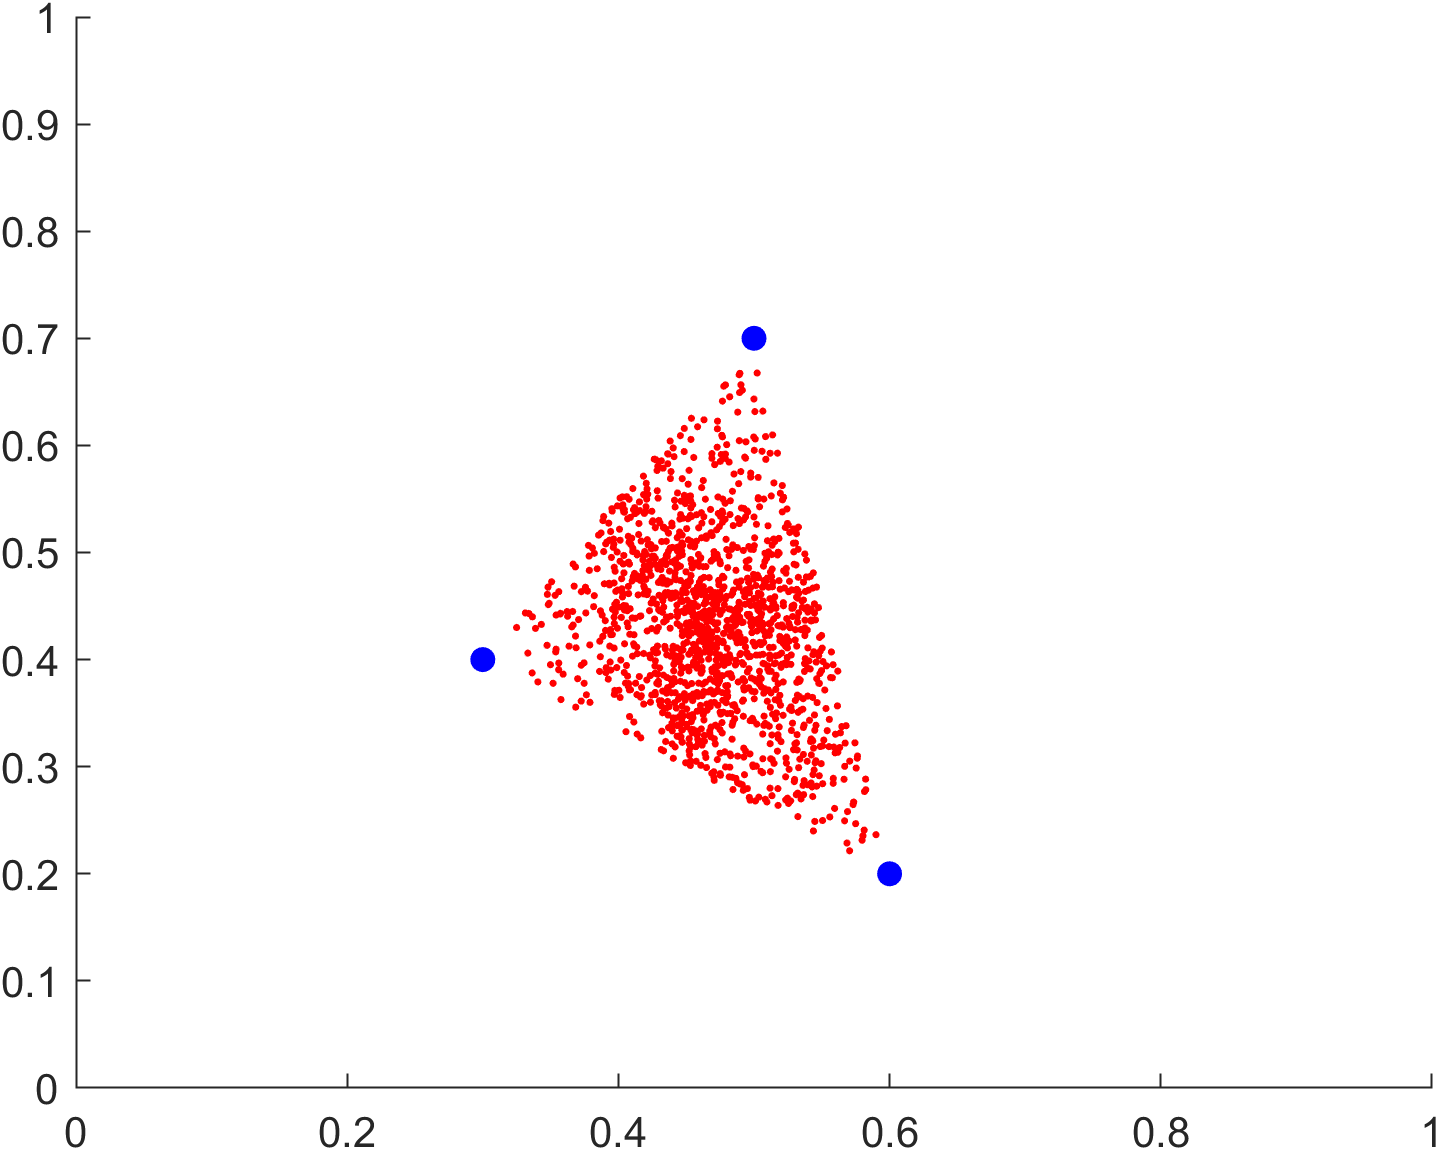
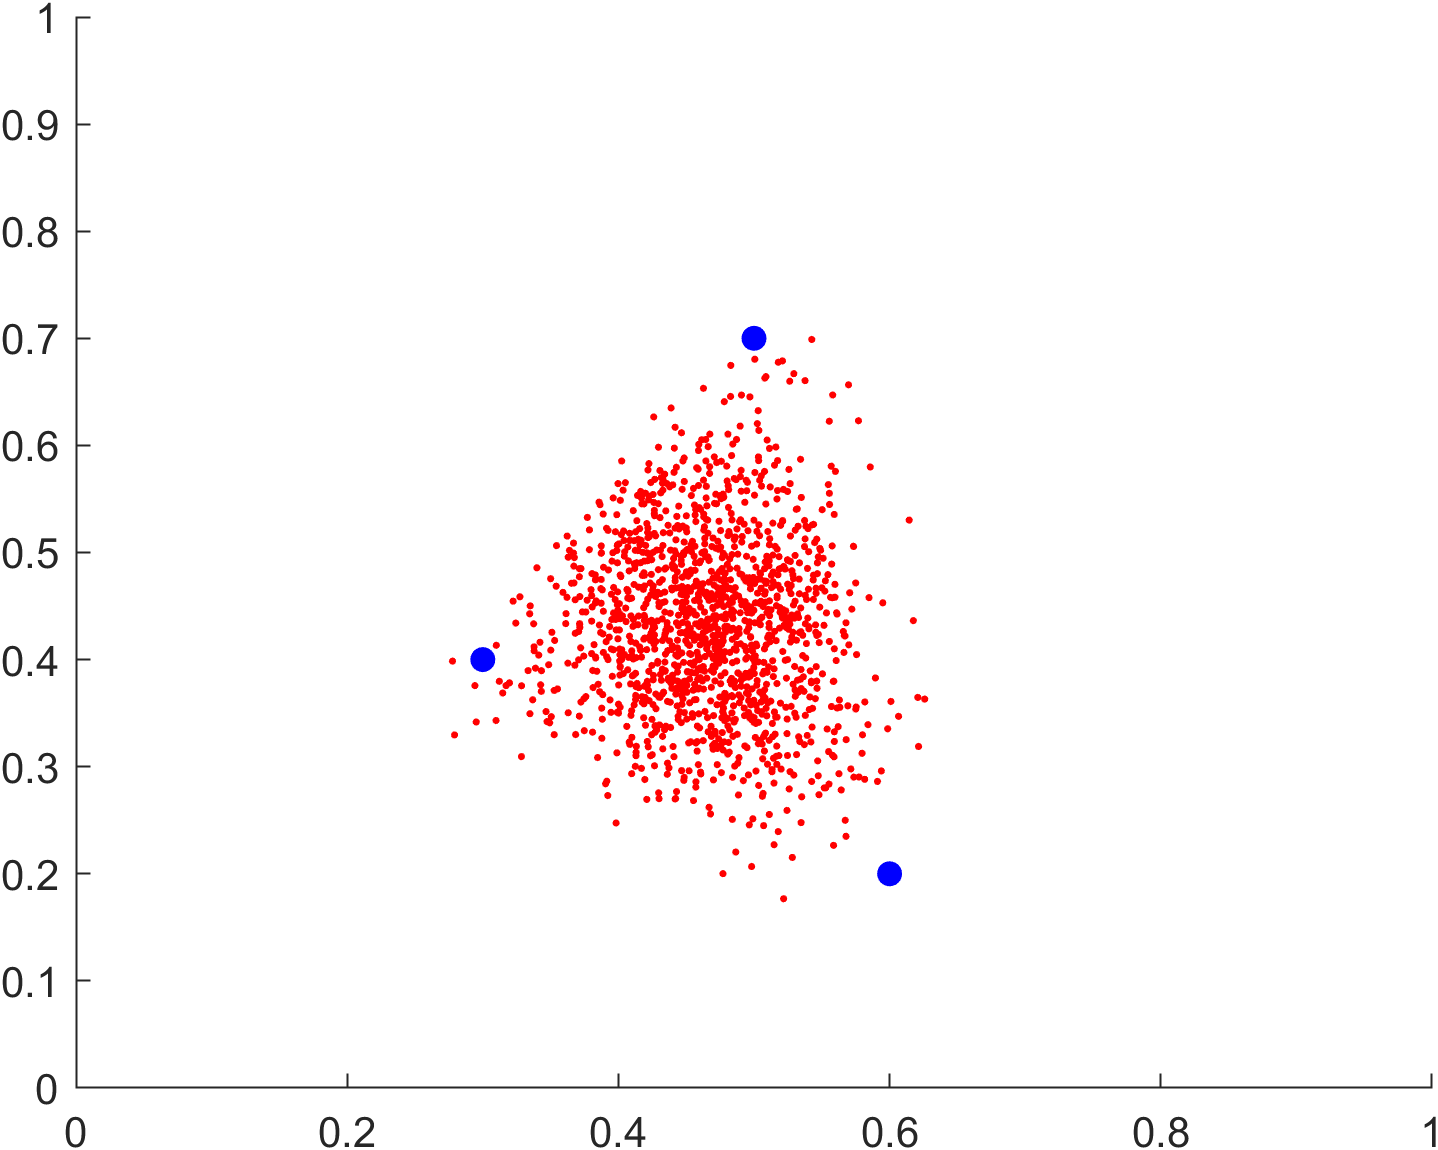
updated lcx

Changed region(s): [[0.3366, 0.3043, 0.612, 0.7304]]

diff --git a/Operators/MyLCX.m b/Operators/MyLCX.m
@@ -40,11 +40,12 @@ classdef MyLCX < XOPERATOR
             
             %% randomizing area
             u = rand(N,D);
-            a = 0;
-            b = 0.05;
+            b = 0.025;
             beta = zeros(N,D);
-            beta(u<=0.5) = a + b*reallog(2*u(u<=0.5));
-            beta(u>0.5) = a - b*reallog(2*(1-u(u>0.5)));
+            f = 1/2;
+            beta(u<=f) = b*(reallog(2 * u(u<=f)));
+            beta(u>f) = - b*(reallog(2 * (1-u(u>f))));
+
 
             %% loop configuration
             selection = randperm(N);
